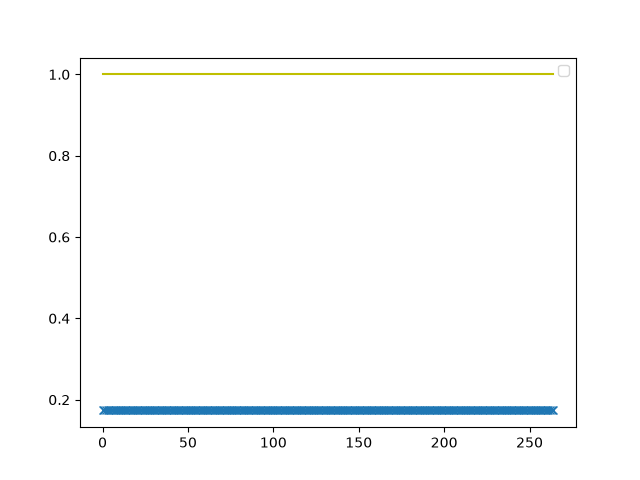
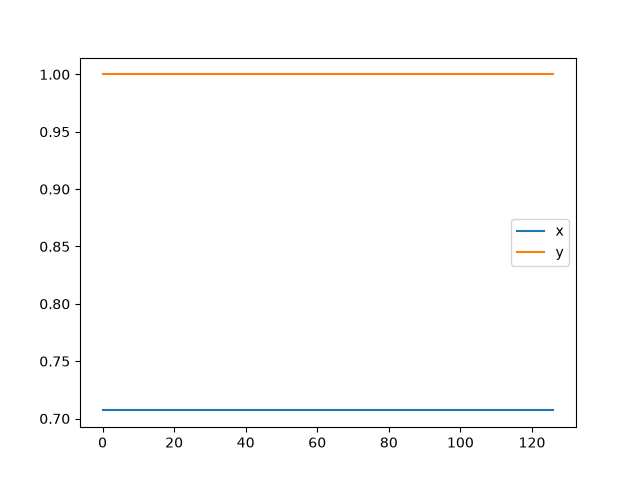
More Py Comments

diff --git a/main.py b/main.py
@@ -6,48 +6,63 @@ matplotlib.use("Agg")
 
 to_radians = 0.0174533
 
-wet_mass = 1.2  # kg
-dry_mass = 0.8  # kg
-dm = 0.1  # kg/s
-thrust = 25  # Newtons
-time_step = 0.01  # 1 / step rate
-duration = 2000  # cycles
-cp = 0.65 # from top
-cg = 0.45 #from top
-cmp = 0.5 #idk what this is
-drag_coefficient = 0.5 #self explanitory
-width = 0.08 # x m
-height = 1.0 # y m
-depth = 0.08 # z m
-mass = rocket_sim.MassStruct(dry_mass, wet_mass,)
-dimensions = rocket_sim.Vec3f()
+wet_mass = 1.2  # mass of the rocket w/ all its fuel 
+dry_mass = 0.8  # mass of the rocket w/o all its fuel 
+dm = 0.1  # change in mass of the rocket due to fuel loss in kg/s 
+thrust = 25  # thrust of the rocket motor in Newtons 
+time_step = 0.01  #  time step of the simulation as 1 / cycles per second
+duration = 2000  # maximum duration of the simulation in cycles. Simulation will end early if rocket goes below altitude of 0 meters 
+cp = 0.65 # center of pressure for drag from the top of rocket in meters. Drag has yet to be integrated so don't worry abt this. You can leave it how it is 
+cg = 0.45 # center of gravity of the rocket from the top of the rocket in meters. This is dynamic rn but I hope to make it dynamic in the future
+cmp = 0.5 # center of pressure imposed by the rocket engine measured from the top in meters. Used in the calculation of the moment on the rocket body during flight
+drag_coefficient = 0.5 # drag coefficient of the rocket in general. Drag is currently not being utilized so this value also doesn't matter that much. Just make sure to put something in so the code doesn't freak out
+width = 0.08 # width of the rocket in meters. Basically the diameter 
+height = 1.0 # height of the rocket in meters 
+depth = 0.08 # depth of the rocket in meters. Also basically the diameter 
+
+mass = rocket_sim.MassStruct(dry_mass, wet_mass,) # initialization of the mass struct for the rocket
+dimensions = rocket_sim.Vec3f() # initialilzation of the rocket dimensions vector used for organization. I had to define it and then change it later because pyo3 was being fussy with having multiple constructors
 dimensions.redefine(width, height, depth)
 rotational = rocket_sim.RotateStruct(cp, cg, cmp, drag_coefficient, dimensions, mass)
 
 #starting thrust vector in degrees
-tx = 10
+tx = 45
 ty = 0
 
 in_thrust = rocket_sim.Vec3f()
 in_thrust.redefine(
-    math.sin(tx * to_radians), 
+    math.sin(tx * to_radians), # I messed up something when first writing the phsyics behidn the thrust vector and just changed the definition as a quick fix
     math.cos(ty * to_radians), 
     0
 )
 
 import matplotlib.pyplot as plt
 
-test = rocket_sim.Rocket(mass, dm, rotational, thrust, time_step, duration, in_thrust)
-test.uncontrolled_sim()
+rocket = rocket_sim.Rocket(mass, dm, rotational, thrust, time_step, duration, in_thrust)
+rocket.uncontrolled_sim
 # test.print_history()
 
-pos_height = test.get_history(0, 1)
-pos_x = test.get_history(0, 0)
-vel_vert = test.get_history(1, 1)
-acc_vert = test.get_history(2, 1)
-pos_mass = test.get_history(4, 0)
-thrust_x = test.get_history(5, 0)
-thrust_y = test.get_history(5, 1)
+# get history method syntax is Rocket::get_history(tip: i8, id: i8) -> PyResult<Vec<f32>>
+# basically, tip is the type of data and id is the value for which you want to fetch from the struct identified by tip. 
+# if the type specified by tip is not a struct, than id could be quite anything really, it would still only return the single value
+# The tips are as follows (Everything listed is under the struct RocketState)
+# 0 => pos
+# 1 => vel
+# 2 => acc
+# 3 => ang (converted to degrees for readability)
+# 4 => mass
+# 5 => thrust_vec (unit vector for thrust)
+# and the ids can be assumed for all other than mass to be 0: x, 1: y, 2: z
+pos_height = rocket.get_history(0, 1)
+pos_x = rocket.get_history(0, 0)
+vel_vert = rocket.get_history(1, 1)
+acc_vert = rocket.get_history(2, 1)
+pos_mass = rocket.get_history(4, 0)
+thrust_x = rocket.get_history(5, 0)
+thrust_y = rocket.get_history(5, 1)
+orient_z = rocket.get_history(3, 2)
+orient_y = rocket.get_history(3, 1)
+orient_x = rocket.get_history(3, 0)
 
 plt.figure()
 plt.plot(pos_height, label="height")
@@ -59,13 +74,22 @@ plt.savefig("sim_data.png")
 plt.close()
 
 plt.figure()
-plt.plot(pos_x, pos_height)
+plt.scatter(pos_x, pos_height, label="trajectory")
+plt.legend()
 plt.savefig("traj.png")
 plt.close()
 
 plt.figure()
-plt.plot(thrust_x, "x")
-plt.plot(thrust_y, "y")
+plt.plot(thrust_x, label="x")
+plt.plot(thrust_y, label="y")
 plt.legend()
 plt.savefig("thrust_data.png")
+plt.close()
+
+plt.figure()
+plt.plot(orient_x, label="x axis")
+plt.plot(orient_y, label="y axis")
+plt.plot(orient_z, label="z axis")
+plt.legend()
+plt.savefig("orientation_data.png")
 plt.close()

diff --git a/src/lib.rs b/src/lib.rs
@@ -36,7 +36,8 @@ mod rocket_sim {
         }
     }
 
-    // add F32 to struct Vec3f
+    use std::num::NonZeroI32;
+// add F32 to struct Vec3f
     use std::ops::Add;
     impl Add<f32> for Vec3f {
         // Allows the operation for adding to be done with the Vec3f Struct
@@ -328,7 +329,9 @@ mod rocket_sim {
 
         // this is where all the translational magic happens
         pub fn uncontrolled_sim(&mut self) {
+            let mut cycle_tracker: i32 = 0;
             for i in 0..self.dur { // sets the duration to cycle 0 through the defined duration of the simulation
+                cycle_tracker += 1;
                 if self.pos.y < 0.0 { // tests whether the rocket hit the ground. If so, it ends the simulation early
                     break;
                 }
@@ -390,6 +393,7 @@ mod rocket_sim {
                     self.mass.mass -= self.dm * self.dt;
                 }
             }
+            println!("Total Cycles: {}", cycle_tracker);
         }
 
         // this method is used for printing all the relative translational information of the rocket. It's kind of outdated at the moment so...
@@ -446,9 +450,9 @@ mod rocket_sim {
                     _ => Err(PyValueError::new_err("Invalid get_history fetch ID"))?,
                 },
                 3 => match id {
-                    0 => Ok(self.state_history.iter().map(|s| s.ang.x).collect()),
-                    1 => Ok(self.state_history.iter().map(|s| s.ang.y).collect()),
-                    2 => Ok(self.state_history.iter().map(|s| s.ang.z).collect()),
+                    0 => Ok(self.state_history.iter().map(|s| s.ang.x * 57.295).collect()),
+                    1 => Ok(self.state_history.iter().map(|s| s.ang.y * 57.295).collect()),
+                    2 => Ok(self.state_history.iter().map(|s| s.ang.z * 57.295).collect()),
                     _ => Err(PyValueError::new_err("Invalid get_history fetch ID"))?,
                 },
                 4 => Ok(self.state_history.iter().map(|s| s.mass).collect()),